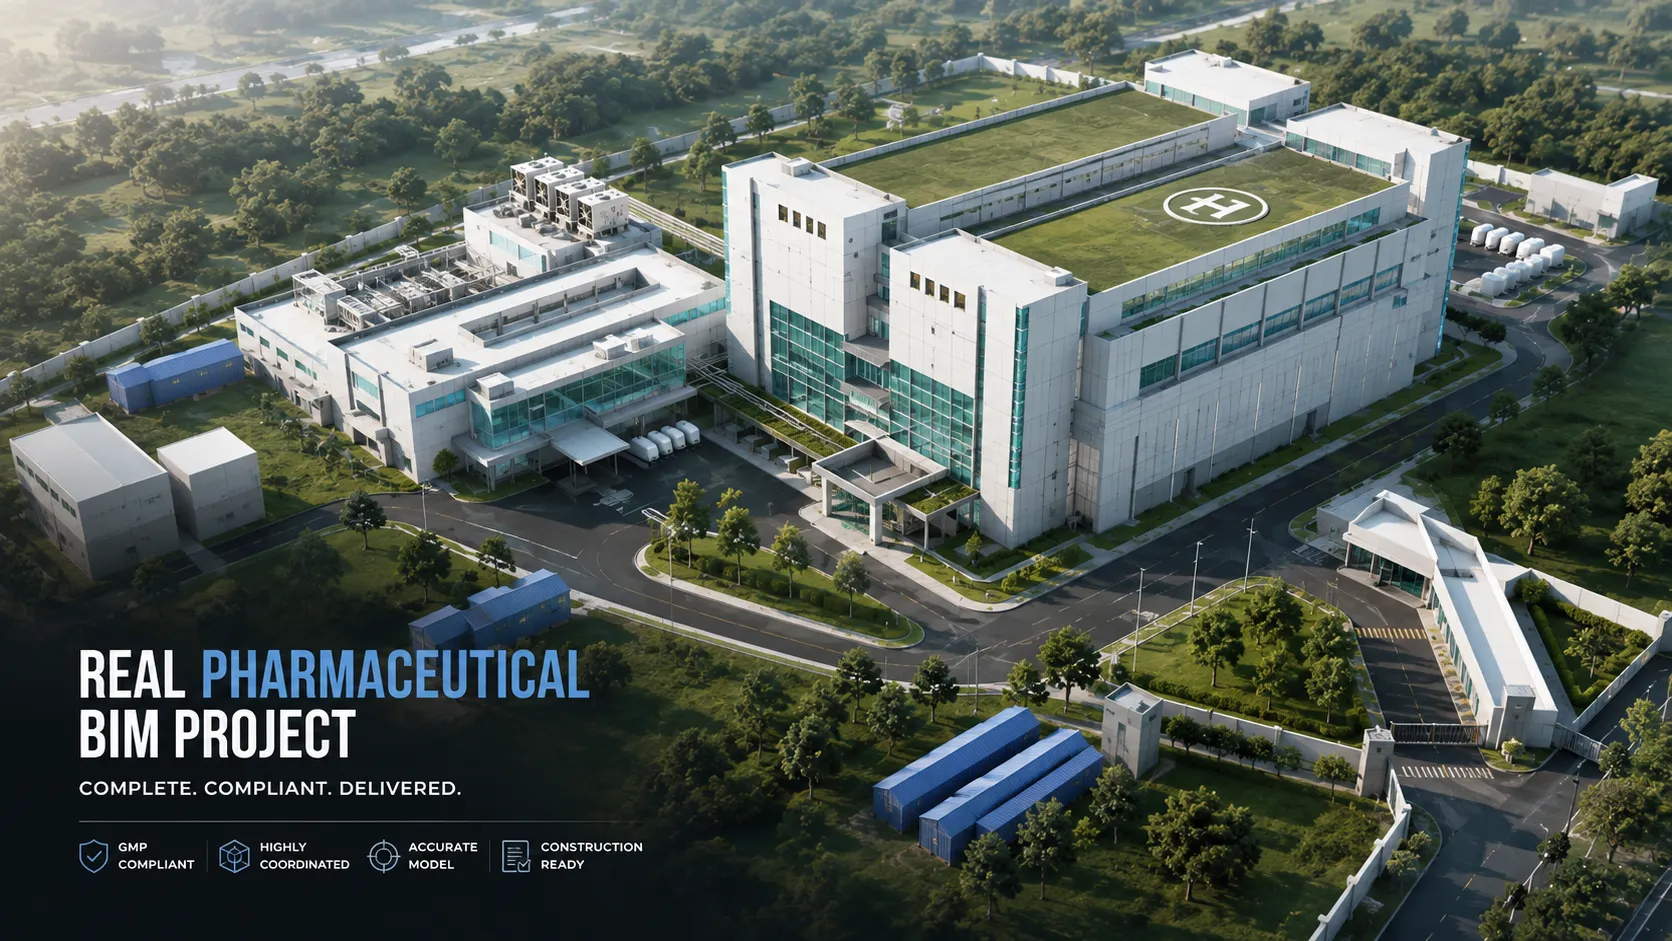
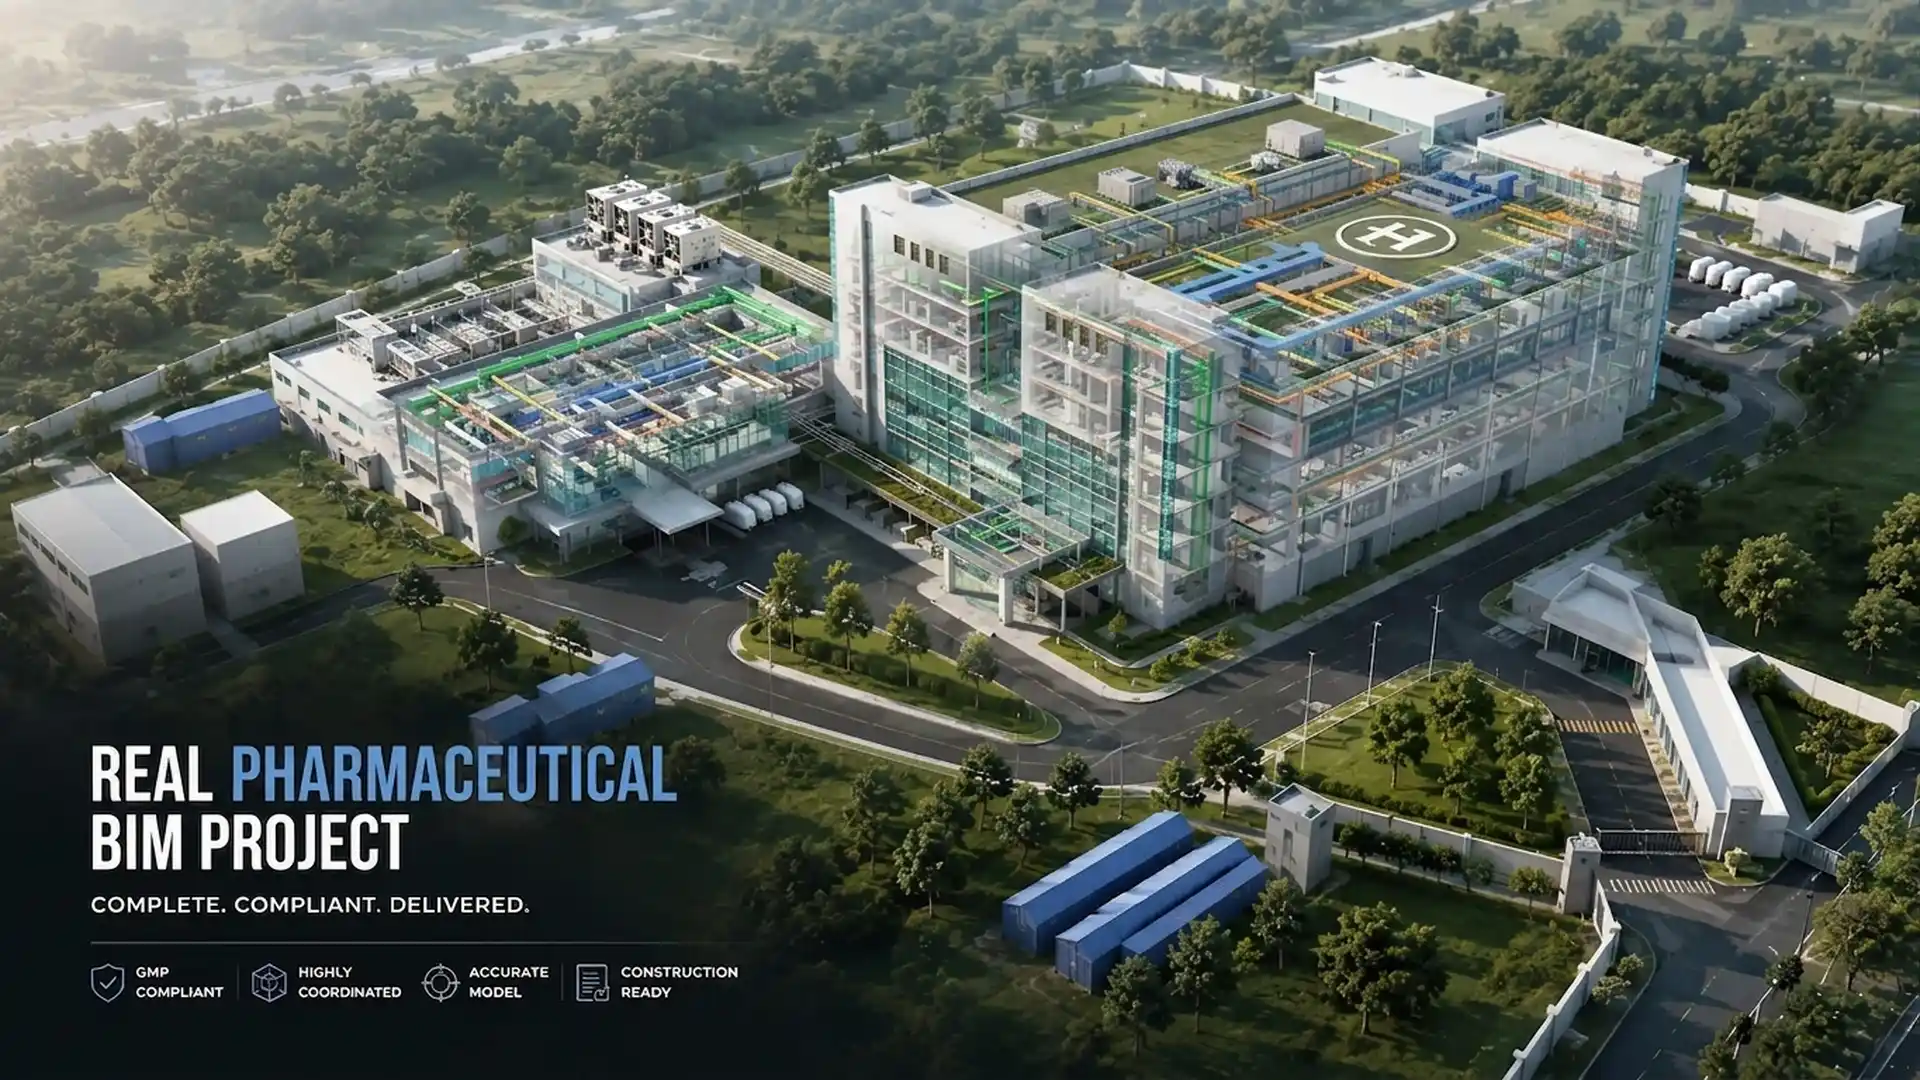
hero update

diff --git a/js/main.js b/js/main.js
@@ -14,7 +14,7 @@ const FEATURED_PROJECT_PRIORITY_IDS = [
   'project-20', // 9. Architectural Renovation Project
   'project-27', // 8. Architectural Renovation Project From Point Cloud
   'project-21', // 7. Architectural Model with Detail Roof Structure (Residential)
-  'project-22', // 10. Architectural & MEP BIM Model (Spa Center)
+  'project-16', // 10. Architectural & MEP BIM Model (Hotel Lodge)
   'project-28', // 11. Construction Permit set
   'project-29'  // 12. Point Cloud to Revit Model
 ];
